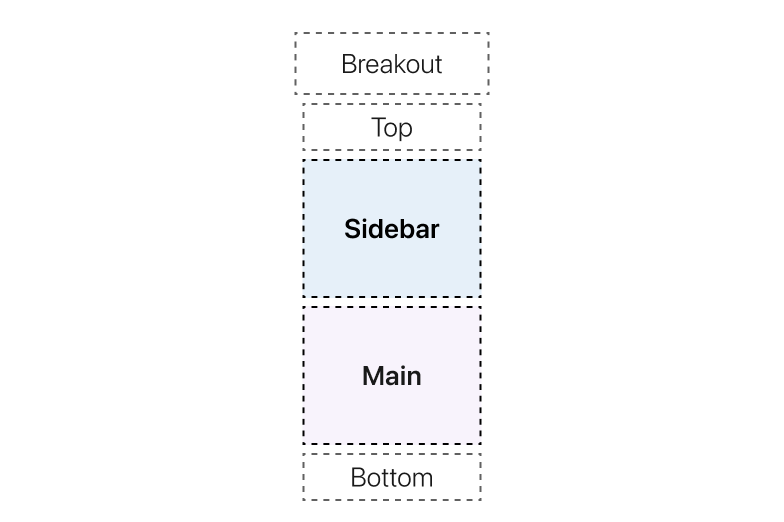
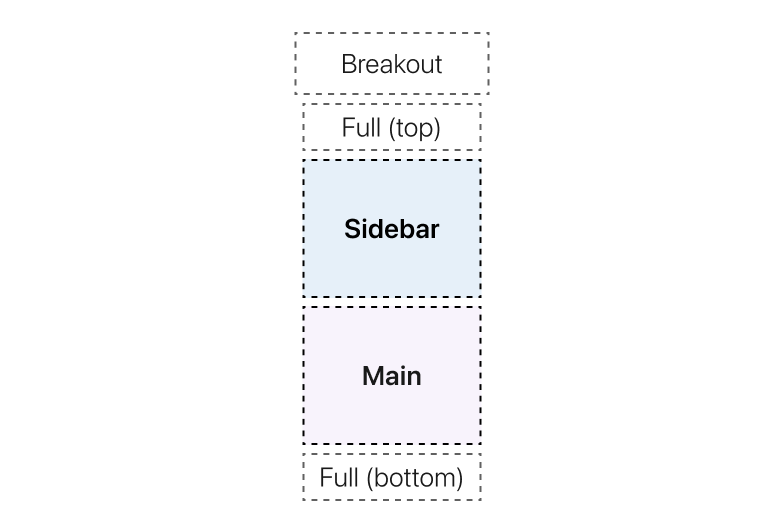
udpated docs based on new DOM recommendations

Changed region(s): [[0.398, 0.8889, 0.5816, 0.9502], [0.4286, 0.2146, 0.5816, 0.2759]]

diff --git a/src/components/Template/Template.stories.tsx b/src/components/Template/Template.stories.tsx
@@ -180,7 +180,7 @@ const otherSubHeaderText =
 export const WithControls: Story = {
   args: {
     id: "template",
-    sidebar: "left",
+    variant: "sidebarLeft",
   },
   render: (args) => {
     const { variant } = args;
@@ -190,7 +190,7 @@ export const WithControls: Story = {
           <Placeholder variant="short">Breakout</Placeholder>
         </TemplateBreakout>
         <TemplateFull>
-          <Placeholder variant="short">Top content</Placeholder>
+          <Placeholder variant="short">Full content (top)</Placeholder>
         </TemplateFull>
         {variant === "sidebarLeft" && (
           <TemplateSidebar>
@@ -206,7 +206,7 @@ export const WithControls: Story = {
           </TemplateSidebar>
         )}
         <TemplateFull>
-          <Placeholder variant="short">Bottom content</Placeholder>
+          <Placeholder variant="short">Full content (bottom)</Placeholder>
         </TemplateFull>
       </Template>
     );
